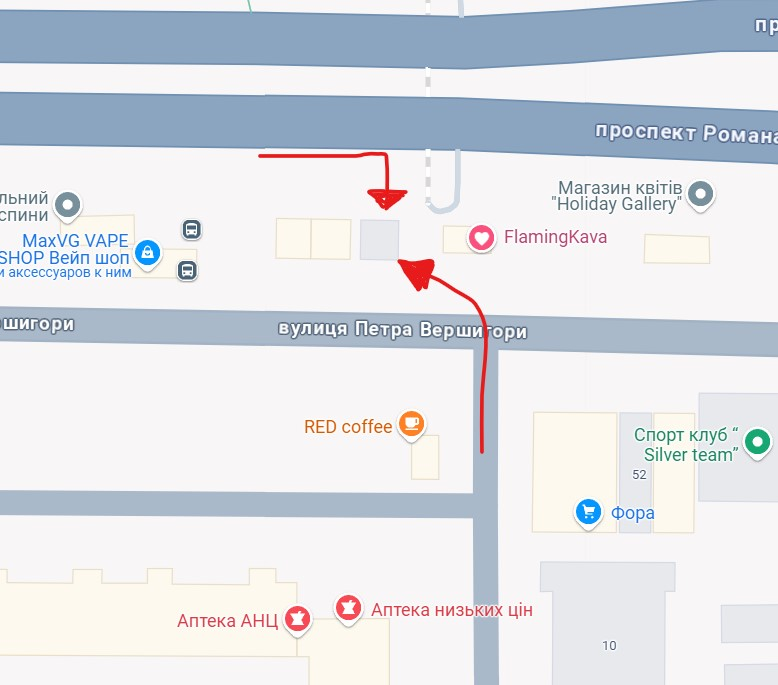
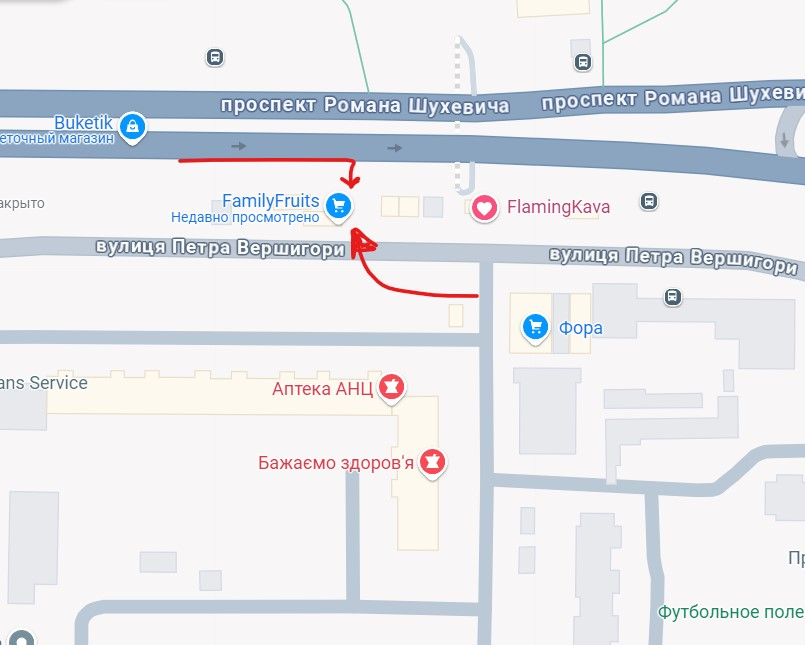
added new items

diff --git a/index.html b/index.html
@@ -82,7 +82,7 @@
             <div class="hello__location">
                 <p class="hello__main-location">Магазин розташований біля зупинки Райдужний (маршрутка 578, автобус 70)🚌
                 </p>
-                <a class="hello__location-google-map" href="https://maps.app.goo.gl/psP1tqr8znxmDRtGA" target="_blank"> --> Подивитися на мапі <--</a>
+                <a class="hello__location-google-map" href="https://maps.app.goo.gl/AJy2ra6NVhMaxyp4A" target="_blank"> --> Подивитися на мапі <--</a>
             </div>
 
             <div>
@@ -109,7 +109,7 @@
                         Наш сімейний магазин розташований біля зупинки ж/м Райдужний (поряд з пішохідним переходом) навпроти рожевої кав'ярні <span ><b>FlamingKava</b></span>
                     </p>
 
-                    <a class="contacts__info-location-map" href="https://maps.app.goo.gl/psP1tqr8znxmDRtGA" target="_blank">
+                    <a class="contacts__info-location-map" href="https://maps.app.goo.gl/AJy2ra6NVhMaxyp4A" target="_blank">
                         <img class="contacts__info-location-map-img" src="img/other/map.jpg" alt="">
                         Подивитися на мапі
                     </a>
@@ -120,15 +120,12 @@
                     <br><span style="color: rgb(183, 253, 104); display: block; margin-top: 10px;"><b>098 831 84 77</b> Олена</span>
                 </div>
                 
-
                 <div class="contacts__info-viber">
                     <a class="contacts__info-viber-link" href="https://invite.viber.com/?g2=AQBfuHzBsElAklO3g4VTIclAdv1YyURqtZicakrfXrsiR2Lu21cG77IFiYb6xakS" target="_blank">
                         <img class="contacts__info-viber-img" src="img/social/viber.png">
                         Підписатися на канал у Viber
                     </a>
                 </div>
-                
-                
             </div>
         </div>
     </div>

diff --git a/js/products/sweets.js b/js/products/sweets.js
@@ -52,7 +52,7 @@ const sweetsData = [
         name: 'Цукерки полуниця в шоколаді',
         category: "sweet",
         minOrder: '0.5 кг',
-        available: false,
+        available: true,
         price: "125"
     },
     {
@@ -78,5 +78,53 @@ const sweetsData = [
         minOrder: '0.5 кг',
         available: true,
         price: "100"
+    },
+    {
+        id: 11,
+        name: 'Цукерки банан в шоколаді',
+        category: "sweet",
+        minOrder: '0.5 кг',
+        available: true,
+        price: "125"
+    },
+    {
+        id: 12,
+        name: 'Цукерки Мохіто',
+        category: "sweet",
+        minOrder: '0.5 кг',
+        available: true,
+        price: "125"
+    },
+    {
+        id: 13,
+        name: 'Грильяж',
+        category: "sweet",
+        minOrder: '0.5 кг',
+        available: true,
+        price: "125"
+    },
+    {
+        id: 14,
+        name: 'Козинаки',
+        category: "sweet",
+        minOrder: '1 кг',
+        available: true,
+        price: "160"
+    },
+    {
+        id: 15,
+        name: 'Цукерки грейпфрут в шоколаді',
+        category: "sweet",
+        minOrder: '0.5 кг',
+        available: true,
+        price: "125"
+    },
+    {
+        id: 16,
+        name: 'Цукерки солона карамель',
+        category: "sweet",
+        minOrder: '0.5 кг',
+        available: true,
+        price: "125"
     },
 ];

diff --git a/js/products/groceries.js b/js/products/groceries.js
@@ -165,12 +165,12 @@ const groceriesData = [
         category: "grocery",
         minOrder: '1 уп',
         available: false,
-        price: "55"
+        price: "65"
     },
     {
         id: 25,
         name: 'Кунжут білий',
-        category: "nuts",
+        category: "grocery",
         minOrder: '100 г',
         available: false,
         price: "20"
@@ -178,9 +178,17 @@ const groceriesData = [
     {
         id: 26,
         name: 'Кунжут чорний',
-        category: "nuts",
+        category: "grocery",
         minOrder: '100 г',
         available: false,
         price: "25"
+    },
+    {
+        id: 27,
+        name: 'Олія рафінована',
+        category: "grocery",
+        minOrder: '5л',
+        available: true,
+        price: "325"
     },
 ];

diff --git a/js/products/spices.js b/js/products/spices.js
@@ -156,7 +156,7 @@ const spicesData = [
         name: "Суміш для м'яса",
         category: "spices",
         minOrder: '50 г',
-        available: false,
+        available: true,
         price: '25',
     },
     {
@@ -172,7 +172,7 @@ const spicesData = [
         name: 'Суміш для плову',
         category: "spices",
         minOrder: '50 г',
-        available: false,
+        available: true,
         price: '25',
     },
     {
@@ -180,7 +180,7 @@ const spicesData = [
         name: 'Суміш для риби',
         category: "spices",
         minOrder: '50 г',
-        available: false,
+        available: true,
         price: '25',
     },
     {

diff --git a/js/products/nuts.js b/js/products/nuts.js
@@ -173,6 +173,6 @@ const nutsData = [
         name: 'Арахіс в кунжуті',
         category: "nuts",
         minOrder: '100 г',
-        available: false
+        available: true
     },
 ];
